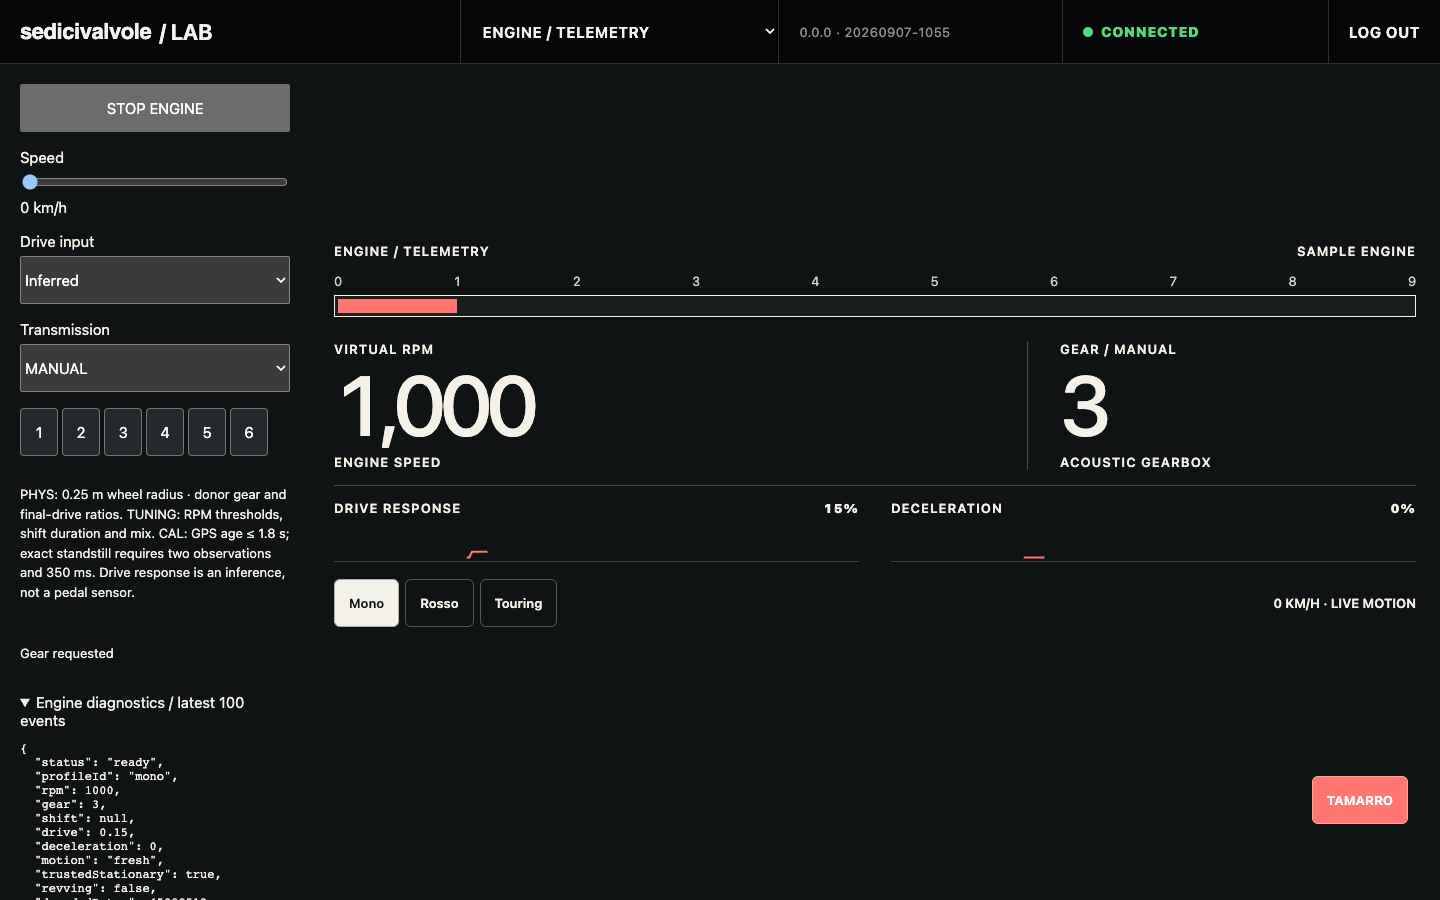
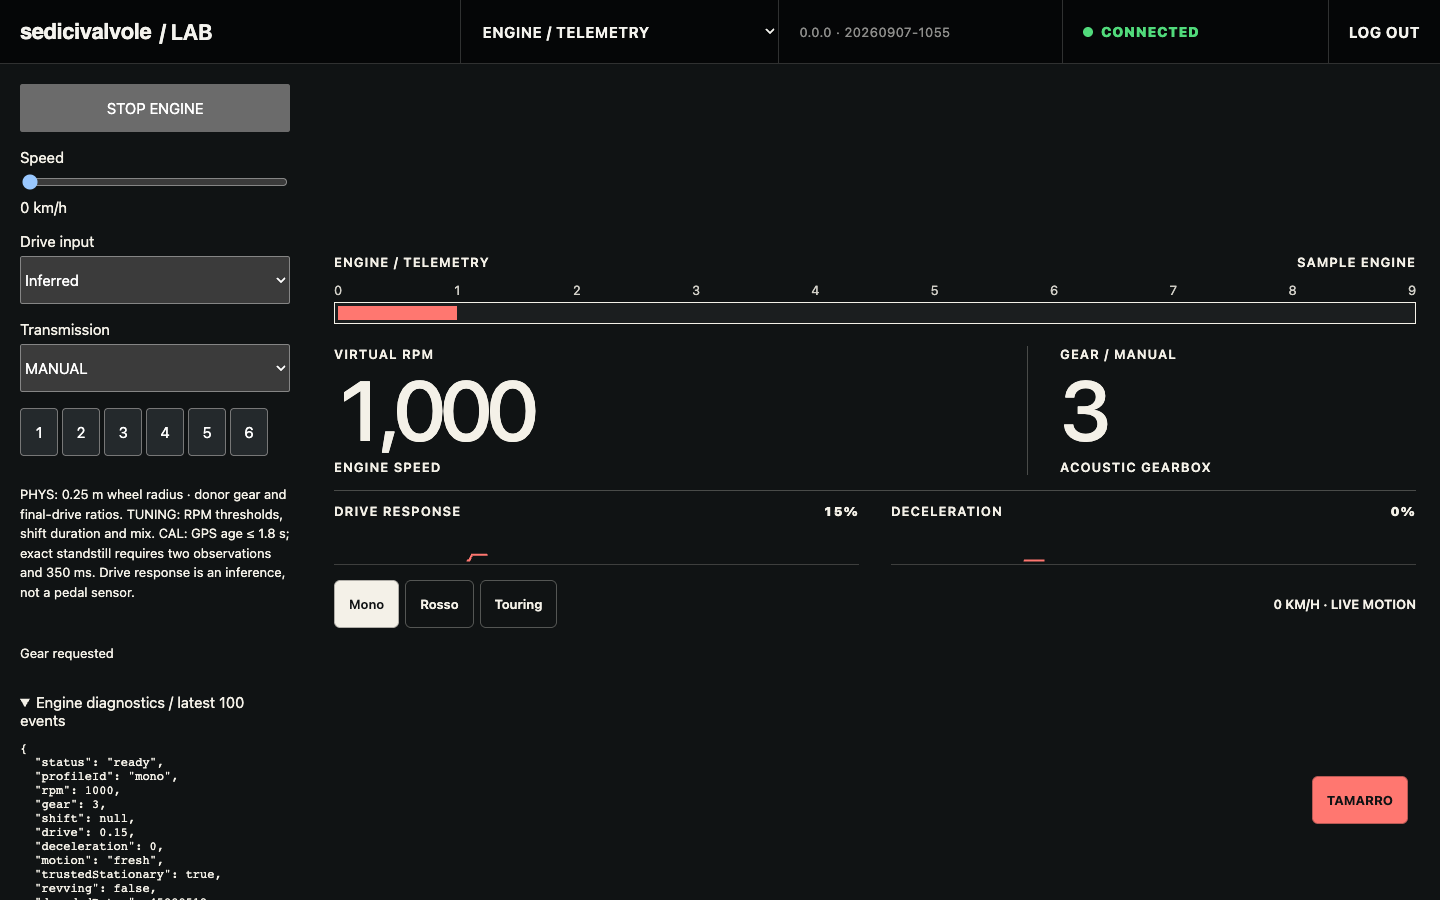
Verify canonical Engine deployment and update milestone handoff

diff --git a/docs/MILESTONE-CHECKLIST-2026-08-31.md b/docs/MILESTONE-CHECKLIST-2026-08-31.md
@@ -46,7 +46,7 @@ descriptions must not restore superseded behavior. See the
 | 12 | First two experiences implemented and live | Night Glass and Neon Groove need A09; broader authorship remains open. |
 | 13 | Implemented; physical acceptance open | A05 and real network recovery evidence. |
 | 14 | Dedicated iPhone implementation/physical matrix not closed | Narrow browser checks do not prove Safari landscape/safe-area/rotation acceptance. A08. |
-| 15 | Engine intake exists; review/integration pending | GEAPS is prior research, not admitted runtime. A10 sets sequencing. |
+| 15 | Engine implemented; browser and automated checks passed; Tesla trial open | Telemetry direction 2, three admitted MIT sample profiles, AUTO and protected LAB MANUAL. A12 collects first listening; publication identity is in DEPLOY. |
 | 16 | Partial vehicle evidence; open | Approximately 40 minutes of observation gaps prevent an endurance pass. A01 plus remaining lifecycle/network/thermal cases. |
 | 17 | Unreleased, VERSION 0.0.0 | Build 20260905-0225 remains live; release follows accepted scope and vehicle matrix. |
 
@@ -61,7 +61,7 @@ Owner answers close only cases actually tested, not missing technical proof.
 | Recovery and scope | [x] RECONCILED | The conflicting-session inventory, complete user-requirement ledger, single-writer boundary, rejected directions, superseded interpretations, and current main checkout were recovered without reconstructing decisions from memory. | Keep this checklist and the current-state documents synchronized. |
 | Licensing and source safety | [x] IMPLEMENTED | PolyForm scope, creator identity, third-party notices, upstream integrity boundaries, ignored source-library policy, secret-safe Jamendo relay, and no-offline-copy rules are documented and tested. | Recheck source terms when a new source or asset is admitted. |
 | Signal and diagnostics | [x] IMPLEMENTED · LIVE · DELIVERY VERIFIED | GPS/Demo normalization, bounded signal response, braking UNDERWATER, coordinate-free v3 report, bounded flight recorder, explicit send, and protected owner LAB are implemented. OPEN/BLOOM acceleration reaction is retired. The owner-supplied complete build-`20260831-0853` attachment closes `GPS → SENT → received`. | Repeat only when a new diagnostic defect needs evidence. |
-| Product shell and controls | [x] IMPLEMENTED · LIVE | Signal Gate, Instrument Deck, six-visual/six-score catalogue grammar, Title Case editorial labels, compact Tesla footer, global MUTE/FX, ten palettes, REPORT, equal Engine/Flux navigation, and central focus release after completed controls are in place. | Engine itself remains a design/audio milestone. Retest automatic chrome retraction in the target Tesla. |
+| Product shell and controls | [x] IMPLEMENTED · LIVE | Signal Gate, Instrument Deck, six-visual/six-score catalogue grammar, Title Case editorial labels, compact Tesla footer, global MUTE/FX, ten palettes, REPORT, equal Engine/Flux navigation, and central focus release after completed controls are in place. | Engine is implemented; first vehicle listening and native behavior remain open. Retest automatic chrome retraction in the target Tesla. |
 | Flux visual catalogue | [x] IMPLEMENTED · LIVE | Aperture, byte-identical Vertigo, Meridian, Atlas, source-faithful Drivey, and PRTCL are selectable; WAKE, PLUMB, and PRIMORDIAL are retired from runtime while their decisions remain recorded. | Target-Tesla motion, touch, thermal, and long-session acceptance is incomplete. |
 | Adaptive music | [x] IMPLEMENTED · LIVE BASELINE | FRACTURE, JUNCTION, and NIGHTSHIFT have authored low-speed behavior, complete transition contracts, bounded runtimes, measured dynamics, and shared braking UNDERWATER processing. | Full low-volume and real-drive listening remains mandatory. |
 | Fixed Soundtrack | [x] CANONICAL HARDENING PASS `20260903-1752` · TESLA PENDING | The equal **Play the Road** / **Soundtrack** drawer, true 29-track Illobo Featured catalogue, separate Jamendo Library with 15 live-verified genre routes, authored `1×`, three-deck media, and global MUTE/FX are implemented. Stable native/on-screen Play, Pause, Previous, and Next share one cancellable serialized transport; duplicate buffering Play coalesces, pause/resume keeps position, newer source/track/score/reset intent cancels stale work, and Media Session publication remains truthful. Native invocation IDs/order/outcomes enter the flight recorder. The aggregate `615/615` gate, production build, publication, byte identity, and exact live on-screen transport QA pass. | Run `R10C-03`, `R4-08`, and `R7-14` in the Tesla; native mini-player behavior and physical listening remain open. |
@@ -253,7 +253,7 @@ acceptance codes and target-Tesla gates.
 | 12 | OWNER GATE → OFFICE | [ ] | Catalogue and audiovisual authorship | Decide intentional visual/score pairings once the expanded catalogue is stable; extend the immediate two-column Visual Library correction from `10B` into intentional grouping without weakening immediate switching or current fallbacks. The shared drawer system retains the direction-aware gesture contract introduced by mandatory row `10A`. | Owner-approved mapping and navigation; deterministic selection/gesture tests; no overflow. |
 | 13 | OWNER GATE → OFFICE → TESLA | [ ] CANONICAL PASS `20260903-1752` · TESLA PENDING | Shared LIGHT/DARK/AUTO appearance and network state | Direction 2 Road Sheet is implemented with LIGHT default and persisted official-icon LIGHT/DARK/AUTO control. AUTO uses a genuinely observable system scheme first, then an existing consented session position for bounded solar phase, and otherwise a safe no-prompt fallback. Semantic chrome remains independent from the visual palette; the existing enlarged palette and quiet healthy-network state remain intact. | Aggregate `615/615`, production build, protected publication, byte identity, exact canonical `773 × 601` LIGHT/DARK/AUTO with unchanged `data-palette=acid`, local `702 × 546`/`1280 × 720`, focus, safe-storage, and clean-console QA pass. Run `R13-00`–`R13-03` in the target Tesla. |
 | 14 | OFFICE + IPHONE | [ ] | Landscape-first iPhone surface | Cover representative `667 × 375` through `932 × 430` Safari sizes, safe areas, and live rotation; portrait becomes an accessible inert rotate notice while the running audio, selection, and renderer state survive. | Real iPhone viewport/rotation matrix with no Tesla or desktop regression. |
-| 15 | OWNER GATE → OFFICE → TESLA | [ ] | Engine mode | Present exactly three Engine-specific visual directions; select one; define the synthetic RPM/load/shift model honestly from normalized speed/acceleration; choose/prove its audio source; implement click-free Engine/Flux switching and alert-safe output. | Selected direction, provenance, mapping tests, build/browser QA, real-car listening. |
+| 15 | TESLA | [ ] | Engine mode | Direction 2 selected; pinned source/WAVs admitted; virtual RPM and AUTO implemented over shared audio output; 651 regression tests and browser/LAB checks pass. | A12: real-car timbre, shift feel, alert audibility, native controls and endurance. |
 | 16 | TESLA + IPHONE | [ ] | Full vehicle QA matrix | Repeat permissions, null/stale GPS, network loss/recovery, cache reset, long session, backgrounding, touch reach, orientation, audio latency, frame pacing, context loss, and safety across the supported Tesla and representative iPhone surfaces. | Visible and audible PASS/FAIL evidence; tests alone cannot close this row. |
 | 17 | OWNER GATE → OFFICE | [ ] | Production release | Only after the acceptance matrix, approve the release; update `VERSION`, create the dated release section, synchronize README/status/architecture/licensing, replace screenshots with verified current-build captures, deploy, and verify live identity/cache. | Explicit release approval, SemVer source of truth, immutable evidence, canonical acceptance. |
 

diff --git a/CHANGELOG.md b/CHANGELOG.md
@@ -146,6 +146,8 @@ All notable changes to `sedicivalvole` are documented here. The format follows K
 
 - 2026-09-07 11:18 `[69230fd]`: Implemented the owner-selected Engine Telemetry mode with three pinned declared-MIT engine-audio sample profiles and 16 byte-identical WAVs. Added acquisition-aware GPS evidence, automatic upshift/downshift/kickdown, audio-clock shift envelopes, exact-stationary held rev, five-minute bank recovery, shared-context FX/mute/Media Session integration and release of decoded Engine memory on return to Flux. Protected LAB adds guarded manual diagnostic gears. Recorded exact source/adaptation hashes, MIT notices and community acknowledgements with the owner-authorized recording-provenance follow-up. Passed 651 regression checks, real-WAV Chrome Engine/Flux/retry/REPORT flow and LAB gear validation; no diagnostic sent. Target-Tesla listening and the visibly unfinished inherited iPhone shell remain open.
 
+- 2026-09-07 11:30 `[7608873]` `build 20260907-1119`: Published Engine / Telemetry from implementation `69230fd`. Official preflight, 204-file / 254,248,512-byte publication, full-hash verification of all 29 Illobo tracks and independent no-write postflight passed. All 28 canonical/cache-busted HTML, bundle and Engine audio/licence comparisons match local SHA-256 identity. Public Chrome launches Engine and REPORT confirms the exact build/source and ready Mono bank with no page exception or diagnostic send. Recorded 651 regression tests, 10 post-build checks, 196 dependency credits and current screenshots. First Tesla listening is A12; iPhone and vehicle-specific acceptance remain open.
+
 ### Added
 
[1 lines of base64/hex data omitted]

diff --git a/docs/DEPLOY.md b/docs/DEPLOY.md
@@ -1,5 +1,37 @@
 # Deployment
 
+## Engine / Telemetry — 2026-09-07 11:30
+
+- Canonical build **`20260907-1119`**, version **`0.0.0`**, built source/docs
+  **`7608873`**; implementation **`69230fd`**.
+- Passed **651 native regression tests**, **10 post-build identity/package checks**
+  and **196/196 README dependency credits**. Production build: 259 App modules,
+  169 inline protected LAB modules, retained Sites-compatible packaging.
+- Official read-only preflight passed. Official publication verified **204 files /
+  254,248,512 bytes**, including all 29 Illobo tracks by full hash. No retired
+  artwork, legacy files or root metadata removed; two prior assets retained for
+  cache overlap. Dynamic root preserved; 11 recognized root entries.
+- Independent official postflight passed; `remote_writes=NONE`.
+- **28 public HTTPS identity checks** match local bytes: canonical and cache-busted
+  HTML, nine emitted assets and all 17 Engine audio-directory files (16 WAVs plus
+  MIT licence). HTML retains `no-store, no-cache, must-revalidate, max-age=0`.
+  WAV identity is encoded in filenames; no additional Cache-Control header was
+  observed for those responses.
+- Public Chrome at **773 × 601** launches ENGINE → START ENGINE → Telemetry,
+  decodes Mono and reports the exact build/source and ready Engine state. No page
+  exceptions; zero diagnostic transmissions. Screenshot inspected after capture.
+- Local actual-WAV tests cover automatic retry after induced network failure,
+  all profiles, Demo acceleration to fourth, braking, GPS-confirmed standstill
+  rev, mute, Engine/Flux and the shared context; protected LAB manual gear verified.
+- Evidence: [canonical hashes](qa/2026-09-07-engine/canonical-hashes.json),
+  [canonical browser](qa/2026-09-07-engine/canonical-browser.json),
+  [current public screen](qa/2026-09-07-engine/07-canonical.png) and
+  [integration/acceptance record](ENGINE-INTEGRATION-2026-09-07.md).
+- Vehicle timbre, alerts, native controls, GPS cadence, background behavior and
+  endurance remain open. The inherited iPhone control shell is still unfinished;
+  its screenshot is a known limitation, not responsive acceptance.
+
+
 ## Reliability recovery and honest diagnostics — 2026-09-07 09:37
 
 - Canonical build **`20260907-0930`**, version **`0.0.0`**, built source/docs

diff --git a/docs/CURRENT-STATE.md b/docs/CURRENT-STATE.md
@@ -1,10 +1,18 @@
 # Current Project State
 
-Latest verified canonical publication: **`20260907-0930`**, source **`f590f51`**
-(reliability implementation `9b57fc3`), version `0.0.0`. See
-[deployment evidence](DEPLOY.md) and [reliability QA](RELIABILITY-QA-2026-09-07.md).
-This supersedes older live-build references below. Engine is now implemented locally; publication evidence will supersede this baseline after postflight. iPhone follows Engine vehicle trial. Read [updated Engine intake](ENGINE-INTAKE-2026-09-07.md). Broad owner acceptance is recorded in
-[owner decisions](OWNER-DECISIONS-2026-09-07.md); A02 is now answered: no spontaneous music stop was reported. No new automatic diagnostic sender exists.
+Latest verified canonical publication: **`20260907-1119`**, source **`7608873`**,
+Engine implementation **`69230fd`**, version `0.0.0`. **651 regression tests**,
+10 post-build checks, 28 HTTPS identity checks and actual public Engine startup
+passed. Official preflight, publication and independent no-write postflight pass.
+See [DEPLOY](DEPLOY.md) and [Engine integration](ENGINE-INTEGRATION-2026-09-07.md).
+
+Engine is implemented and live: Telemetry direction 2, Mono/Rosso/Touring, AUTO,
+protected LAB MANUAL, shared audio, GPS evidence, rev protection and retry. The
+source/WAV authorization is settled. Next: owner first listen in
+[A12](OWNER-ANSWERS-2026-09-07.md#a12--engine-first-listen), then iPhone. The phone
+control shell remains unfinished. ATLAS/full-screen statistics and Standard/Dev
+diagnostics are queued. Broad Flux/Soundtrack/FX/interface/Discover acceptance
+remains recorded; no new automatic diagnostic sender exists.
 
 Visual recovery and diagnostic accounting fixes are implemented; publication evidence is recorded in [DEPLOY.md](DEPLOY.md). Future diagnostics automation is not yet implemented.
 

diff --git a/docs/ENGINE-INTEGRATION-2026-09-07.md b/docs/ENGINE-INTEGRATION-2026-09-07.md
@@ -1,7 +1,8 @@
 # Engine / GEAPS integration — September 7, 2026
 
-Status: implemented; verification and publication evidence are recorded below and
-in DEPLOY.md. Target-Tesla listening and sustained operation remain owner trials.
+Status: implemented and canonically published as build `20260907-1119`, source
+`7608873` (implementation `69230fd`). Publication and independent postflight
+passed; 28 HTTPS identity checks and public Engine startup are verified in DEPLOY.md. Target-Tesla listening and sustained operation remain owner trials.
 This is an informed integration after explicit owner authorization, not a blind
 Phase A review or a claim that the earlier candidate passed independent review.
 
@@ -109,3 +110,15 @@ Visual audit corrections: launch panel stacking and mode access; pointer-through
 of global chrome to Engine controls; LAB full-width placement; fixed-height tach
 bar under standstill controls; contrast-safe held-rev text. Accepted desktop
 frames are 01–04 and 06; frame 05 records the known phone-shell limitation.
+
+### Captured flow audit
+
+1. Launch / profile selection — PASS (01).
+2. Ready Telemetry / public control shell — PASS at 773 × 601 (02, 07).
+3. Moving / automatic gears / retracting chrome — PASS in Demo (03).
+4. Trusted standstill / held rev / mute — PASS with GPS API fixtures (04).
+5. Phone shell — OPEN, inherited clipped controls; iPhone milestone deferred (05).
+6. Protected LAB / manual diagnostic gear — PASS locally (06); production auth preserved.
+
+The selected Telemetry composition was checked from saved current screenshots.
+These checks do not certify physical cabin legibility or full accessibility.

diff --git a/docs/MODES.md b/docs/MODES.md
@@ -82,13 +82,15 @@ The UI must not label a derived value as real Tesla RPM, throttle, gear, CAN, mo
 - no illustrated landscapes, environmental scenes, characters, narrative objects, or old Flash-like decoration;
 - visuals remain subordinate to safe driving and the musical experience.
 
-## Open decisions
+## Implemented first integration and remaining decisions
 
-- final enabled selector behavior after Engine is implemented;
-- whether the last selected mode persists locally and which mode opens on first use;
-- crossfade duration and behavior while muted or during Brake;
-- Engine synthesis, sample-loop, or hybrid strategy;
-- first engine-model catalog and licensing/provenance requirements;
-- synthetic ratio/gear behavior, manual overrides, and EV-context framing;
-- whether a future hybrid mode is desirable; it is not part of the confirmed two-mode requirement;
-- per-mode control sets and which preferences are shared.
+The first integration selects sample-loop Engine (Mono/Rosso/Touring), public
+AUTO, protected LAB-only MANUAL, the shared FX/mute path and short audio gain
+ramps. The owner selected Telemetry and explicitly admitted the source/WAVs;
+these are resolved decisions, not another permission gate. See the exact
+[parameter and source record](ENGINE-INTEGRATION-2026-09-07.md).
+
+The launch defaults to Flux and does not yet persist the selected primary mode.
+Remembered-mode startup and any future procedural/hybrid generator are later
+product refinements. A blended Engine-plus-Flux mode is not part of this scope.
+Vehicle acceptance remains open; A12 holds the first listening response.

diff --git a/docs/PRODUCT-SPEC.md b/docs/PRODUCT-SPEC.md
@@ -341,7 +341,7 @@ acceptance in the vehicle.
 
 | Feature | Status | Note |
 |---|---|---|
-| Engine mode with synthesized/sampled models | confirmed primary mode | mapping, catalog, quality, and latency require dedicated spike |
+| Engine mode with synthesized/sampled models | implemented: GEAPS / Telemetry / three sample profiles | AUTO, shared audio and browser tests passed; vehicle timbre, shift feel and native/background acceptance remain open |
 | Adaptive synth + sequencer | implemented prototype | FRACTURE runs in the AudioWorklet; real Tesla musical acceptance pending |
 | Modular Aperture generative visual | implemented prototype | WebGL2 plus Canvas2D fallback; Tesla performance pending |
 | PLUMB inertial-suspension visual | rejected and retired before publication | Exact-viewport review triggered its strings/bars retirement criterion; no active renderer |

diff --git a/docs/SESSION-HANDOFF.md b/docs/SESSION-HANDOFF.md
@@ -1,5 +1,14 @@
 # Session Handoff
 
+September 7 Engine handoff: source `7608873` / build `20260907-1119` is published
+and canonical Engine startup is verified. Implementation is `69230fd`; read
+[CURRENT-STATE](CURRENT-STATE.md), [Engine integration](ENGINE-INTEGRATION-2026-09-07.md)
+and [A12](OWNER-ANSWERS-2026-09-07.md#a12--engine-first-listen) before older queues.
+Telemetry direction 2, declared-MIT source/WAV admission and deployment are
+settled owner decisions. Next is vehicle listening, then the deferred iPhone shell;
+ATLAS/statistics separation and Standard/Dev diagnostics remain future work.
+
+
 Latest verified canonical publication: **`20260907-0930`**, source **`f590f51`**
 (reliability implementation `9b57fc3`), version `0.0.0`. See
 [deployment evidence](DEPLOY.md) and [reliability QA](RELIABILITY-QA-2026-09-07.md).
